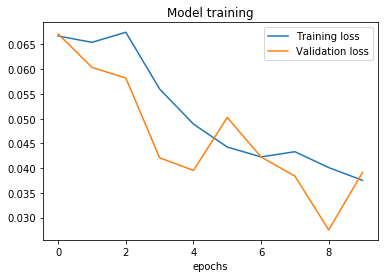
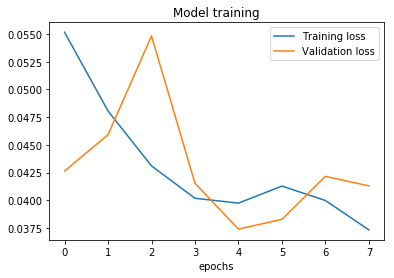
resend

diff --git a/report.md b/report.md
@@ -56,7 +56,7 @@ nets, increasing the number of filters for the deeper layers as they reduce
 in width and height. For dense layers is done the opposite, decreasing size
 towards the last layer.
 
-Keras utilities are used to crop, normalize and center pixels (lines 142-145). 
+Keras utilities are used to crop, normalize and center pixels (lines 140-144). 
 By doing this within model layers, there no need to make any change 
 in `drive.py`.
 
@@ -71,34 +71,38 @@ in `drive.py`.
 |conv2d_5 (Conv2D)          |(None, 1, 31, 72)        | 38952    |
 |dropout_1 (Dropout)        |(None, 1, 31, 72)        | 0        |
 |flatten_1 (Flatten)        |(None, 2232)             | 0        |
-|dense_1 (Dense)            |(None, 48)               | 107184   |
-|dense_2 (Dense)            |(None, 32)               | 1568     |
-|dense_3 (Dense)            |(None, 16)               | 528      |
-|steer_angle (Dense)        |(None, 1)                | 17       |
+|dense_1 (Dense)            |(None, 48)               | 160776   |
+|dense_2 (Dense)            |(None, 32)               | 4380     |
+|dense_3 (Dense)            |(None, 16)               | 2928     |
+|steer_angle (Dense)        |(None, 1)                | 49       |
 
-Total params: *288,745*
+Total params: *347,581*
 
-Trainable params: *288,745*
+Trainable params: *347,581*
 
 Non-trainable params: *0*
 
 For training it was chosen to use 80% of samples, 20% for validation
-(line 119).
-The optimizer is Adam with learning rate of 0.0007, a little lower than its
-default value of 0.001. Running the generator for 10 epochs showed to be
+(line 118).
+The optimizer is Adam with learning rate of 0.001, with decay of 1e-4. 
+Running the generator for 10 epochs showed to be
 enough (loss decreasing for both train and validation).
 Loss function is mean squared error (line 186).
+The ealy stop callback was set to 1e-3, patience=2 (line 178 and 196).
+This callback did fire in epoch 00007.
 
 ![Training history](./images/history.png)
 
 The training data was recorded in distinct sessions, evaluating the model each
-time, so it has generated 8 zip files (around 450MB). These recording sessions contain:
+time, so it has generated 15 zip files (around 550MB). 
+These recording sessions contain:
 
 - about 2 full laps driving with the car in the center of the road
 - 1 lap driving in zig-zag, exposing the model to "new" images
 - recovering training in corners, driving the car from the edges in direction
 the center of the road
 - 1 full lap driving clockwise (reverse from default)
+- focus on corners
 
 So with this dataset we build an implicit constrain that the car should not
 go off the road.
